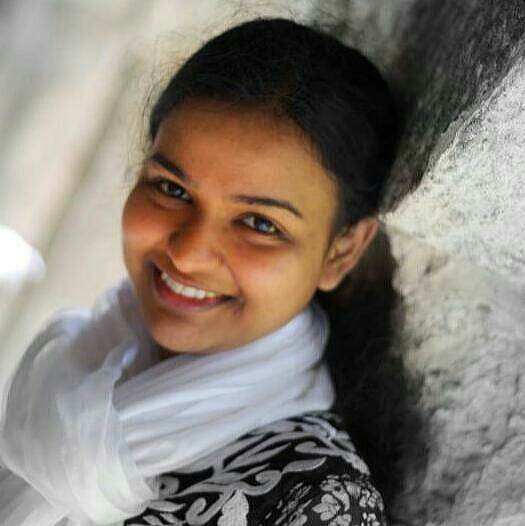
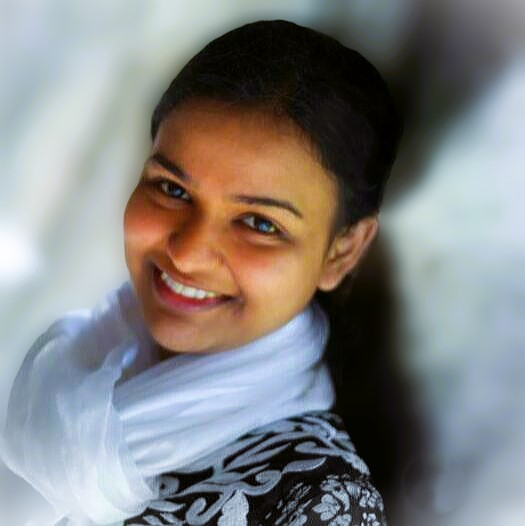
css updated with header styling

diff --git a/style.css b/style.css
@@ -1,3 +1,35 @@
+body {
+  width:1000px;
+  height: vh;
+  margin: 0 auto;
+  background-color:white;
+  padding:0px;
+}
+
+#welcomebanner {
+  box-sizing: border-box;
+  background-color: rgb(144, 252, 252);
+  margin:0;
+  padding: 15px;
+  width: 980px;
+  height:200px;
+}
+
+#welcomebanner img {
+  display: block;
+  float: right;
+  border-block-end-color: black;
+  position:absolute;
+  top: 50px;
+  right: 200px;
+}
+
+#navigation {
+  display:flex;
+  flex-direction: row;
+  justify-content: center;
+}
+
 #horiseonimg,
  #profileimg,
  #linkedinimg,

diff --git a/index.html b/index.html
@@ -11,11 +11,9 @@
 
 <body>
   <!-- main logo / nav -->
-  <header>
+  <header id="welcomebanner">
     <h1>Chrisma Stephen</h1>
-    <section id="welcomebanner">
-      <img id="profileimg"src="images/pic.jpeg" alt="Welcome Image" />
-    </section>
+      <img id="profileimg" src="images/profile.png" alt="Welcome Image" />
     <nav id="navigation">
       <ul>
         <li><a href="#Aboutme">About Me</a></li> 
